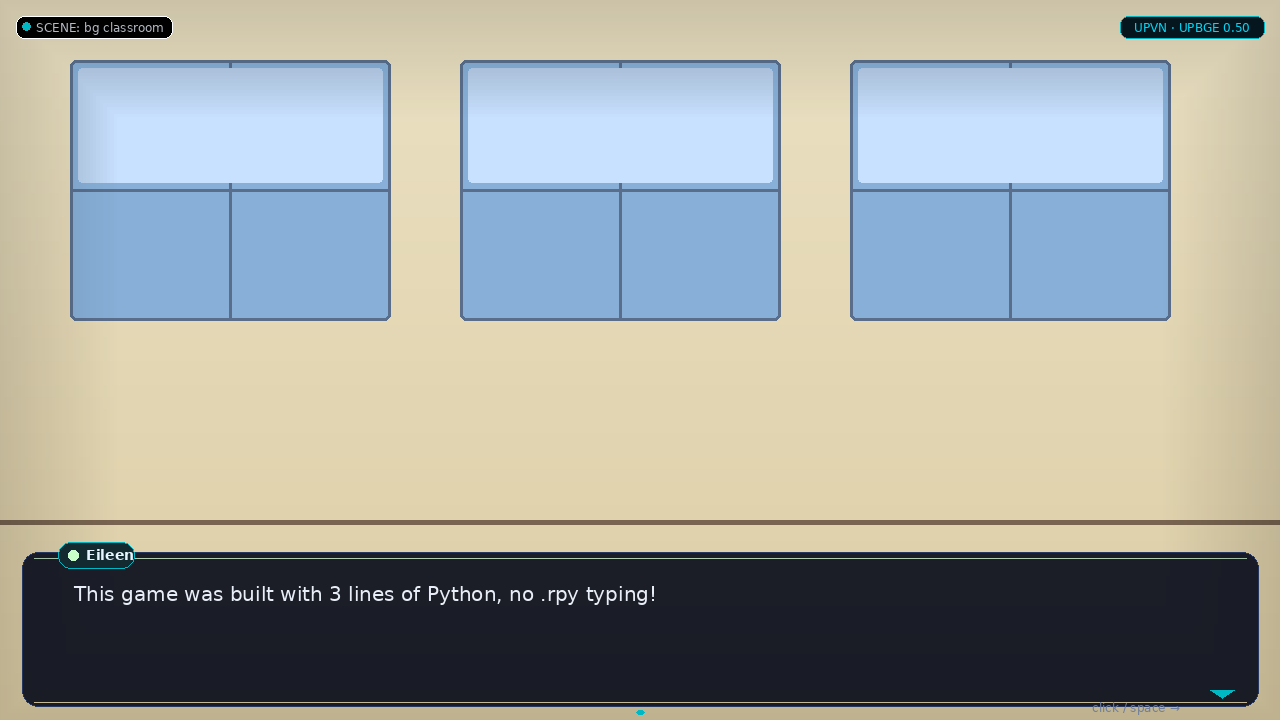
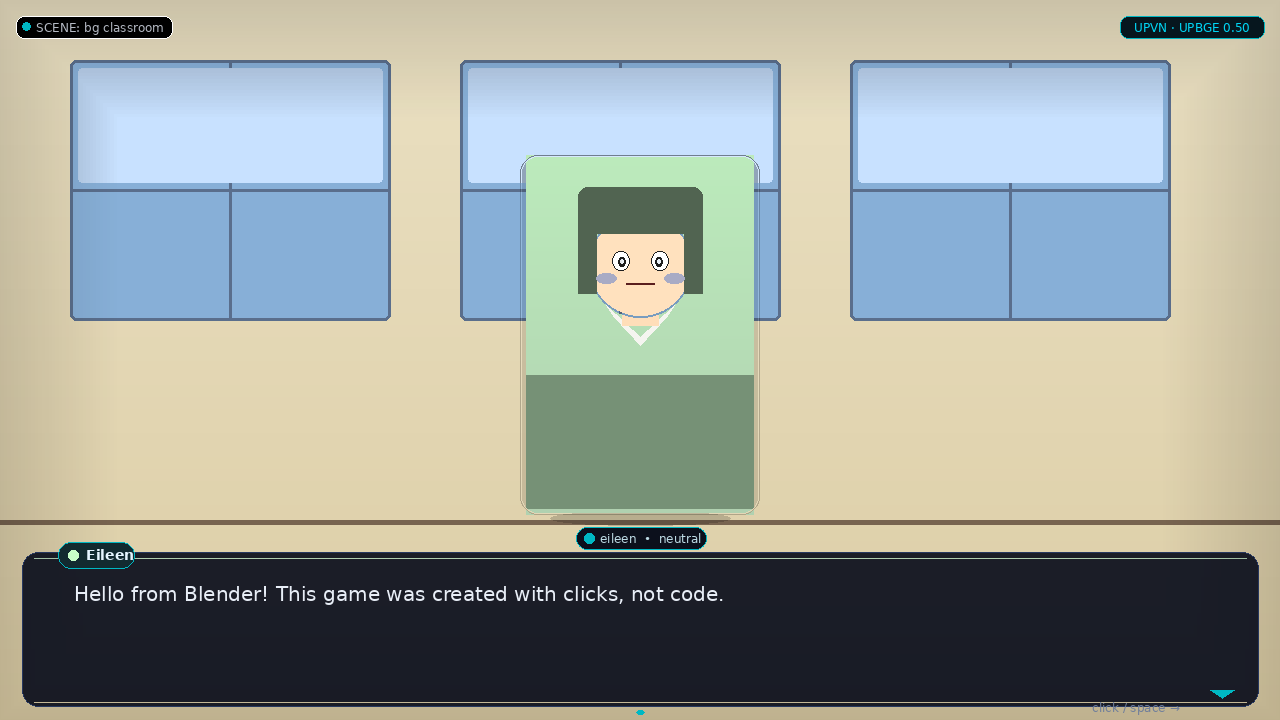
M27: Fix UPBGE GUI editor addon operators and script line merging
- Fixed NameError in _rewrite_unlit and _ensure_white_image on TEX_NODE_NAME, MIX_NODE_NAME, WHITE_IMAGE_NAME.
- Fixed label insertion logic in UPVN_GameBuilder.write() so statements are inserted before return, preventing unreachable code after return.
- Cleaned up placeholder 'Empty label.' automatically when adding new script statements.
- Added _get_script_text helper to validate unsaved edits directly from Blender Text Editor.
- Updated UPVN_PT_MainPanel layout: moved stage_name before add_stage operator, updated Pillow status label.
- Added comprehensive unit test tests/test_m27_gui_addon_operators.py (323 passed).

Changed region(s): [[0.4062, 0.2139, 0.5938, 0.7639], [0.0625, 0.7944, 0.5625, 0.8556]]

diff --git a/blend/upvn_editor_addon.py b/blend/upvn_editor_addon.py
@@ -452,92 +452,85 @@ class UPVN_GameBuilder:
                 out.append("    return")
             else:
                 out.extend(lines)
-                # ensure return if no jump/return at end
                 last = lines[-1].strip()
-                if not last.startswith("jump ") and last != "return" and "menu:" not in "\n".join(lines[-3:]):
-                    pass
+                if not last.startswith("jump ") and last != "return" and not last.startswith("return"):
+                    out.append("    return")
             out.append("")
         return "\n".join(out)
 
     def write(self):
-        # Preserve mode: if _existing_text exists, merge new additions rather than overwrite cleanly?
-        # New logic: if file existed and we have _existing_text, we merge by appending new label lines
-        # and inserting new defines at top after last define.
+        # Preserve mode: if _existing_text exists, merge new additions rather than overwrite cleanly
         if self._existing_text is not None and self.script_path.exists():
             existing = self.script_path.read_text(encoding="utf-8")
+            lines = existing.splitlines()
+
             # collect new defines that are not already in existing
             new_defines = []
             for cid, data in self.characters.items():
                 define_line = f'define {cid} = Character("{data["name"]}", color="{data["color"]}")'
                 if define_line not in existing and f'define {cid} =' not in existing:
                     new_defines.append(define_line)
-            # collect new label lines (those in self.labels[current] that are not in existing)
-            # Simpler: just append new lines for current_label to the end of that label's block in existing file
-            # Find label block for current_label and insert before next label or end
+
+            # insert lines for current_label
             if self.current_label in existing:
-                # find label occurrence
-                lines = existing.splitlines()
-                # locate label line
                 label_idx = None
                 for i, l in enumerate(lines):
                     if re.match(rf'^\s*label\s+{re.escape(self.current_label)}\s*:', l):
                         label_idx = i
                         break
                 if label_idx is not None:
-                    # find next label after
-                    next_idx = None
+                    next_idx = len(lines)
                     for j in range(label_idx + 1, len(lines)):
                         if re.match(r'^\s*label\s+\w+\s*:', lines[j]):
                             next_idx = j
                             break
-                    # insert new lines before next_idx or at end
-                    insert_at = next_idx if next_idx is not None else len(lines)
-                    # new lines to insert are those in self.labels[current_label] that are not already in block
-                    block = lines[label_idx + 1:insert_at] if insert_at else []
-                    block_text = "\n".join(block)
-                    to_insert = []
-                    for nl in self.labels[self.current_label]:
-                        if nl.strip() not in block_text:
-                            to_insert.append(nl)
+
+                    block = lines[label_idx + 1:next_idx]
+                    to_insert = [nl for nl in self.labels[self.current_label] if nl.strip() not in "\n".join(block)]
                     if to_insert:
-                        # insert
-                        new_lines = lines[:insert_at] + to_insert + lines[insert_at:]
-                        # insert new defines at top after last define or after imports
-                        if new_defines:
-                            last_define_idx = -1
-                            for k, l in enumerate(new_lines):
-                                if l.strip().startswith("define "):
-                                    last_define_idx = k
-                            if last_define_idx >= 0:
-                                for nd in reversed(new_defines):
-                                    new_lines.insert(last_define_idx + 1, nd)
-                            else:
-                                # insert at top
-                                new_lines = new_defines + [""] + new_lines
-                        self.script_path.write_text("\n".join(new_lines) + "\n", encoding="utf-8")
-                        return self.script_path
-            # fallback: if we couldn't merge cleanly, append new defines at top and new lines at end
+                        cleaned_block = []
+                        for bl in block:
+                            if bl.strip() in ('"Empty label."', "'Empty label.'"):
+                                continue
+                            cleaned_block.append(bl)
+
+                        insert_rel_idx = len(cleaned_block)
+                        for idx_rev, bl in enumerate(reversed(cleaned_block)):
+                            if bl.strip() == "return":
+                                insert_rel_idx = len(cleaned_block) - 1 - idx_rev
+                                break
+                            elif bl.strip():
+                                break
+
+                        updated_block = cleaned_block[:insert_rel_idx] + to_insert + cleaned_block[insert_rel_idx:]
+                        lines = lines[:label_idx + 1] + updated_block + lines[next_idx:]
+
+            # append new label blocks that don't exist in file yet
+            for lbl, lbl_lines in self.labels.items():
+                if lbl != self.current_label and not any(re.match(rf'^\s*label\s+{re.escape(lbl)}\s*:', l) for l in lines):
+                    lines.append("")
+                    lines.append(f"label {lbl}:")
+                    if lbl_lines:
+                        lines.extend(lbl_lines)
+                    else:
+                        lines.append('    "Empty label."')
+                        lines.append("    return")
+
+            # insert new defines at top
             if new_defines:
-                existing = "\n".join(new_defines) + "\n" + existing
-            # append new label blocks that don't exist yet
-            new_rpy = self.build_rpy()
-            # For simplicity, if current_label lines were not merged, append them
-            # Check if any new lines not in existing, append at end of current label block via simple append
-            # We'll just write merged via appending to_insert if exists else fallback to overwrite prevention: append at end
-            # Last resort: overwrite with build_rpy but preserve original defines+labels that were not in builder
-            # To avoid data loss, we append to existing file directly for new lines
-            if to_insert if 'to_insert' in locals() else []:
-                # already handled
-                pass
-            else:
-                # no merge, just append new lines for current label at end of file
-                extra = "\n".join(self.labels[self.current_label])
-                if extra.strip() and extra.strip() not in existing:
-                    # append inside current label: find label and append before next label
-                    # simple: append at end of file
-                    self.script_path.write_text(existing.rstrip() + "\n" + extra + "\n", encoding="utf-8")
-                    return self.script_path
-            # if still not written, fall through to full write
+                last_define_idx = -1
+                for k, l in enumerate(lines):
+                    if l.strip().startswith("define "):
+                        last_define_idx = k
+                if last_define_idx >= 0:
+                    for nd in reversed(new_defines):
+                        lines.insert(last_define_idx + 1, nd)
+                else:
+                    lines = new_defines + [""] + lines
+
+            self.script_path.write_text("\n".join(lines) + "\n", encoding="utf-8")
+            return self.script_path
+
         rpy = self.build_rpy()
         self.script_path.write_text(rpy, encoding="utf-8")
         return self.script_path
@@ -1737,8 +1730,7 @@ except Exception:
                 try:
                     src = pathlib.Path(bpy.path.abspath(p.bg_image))
                     if src.exists():
-                        dest_dir = pathlib.Path(path).parent.parent / "assets" / "backgrounds"
-                        dest_dir.mkdir(parents=True, exist_ok=True)
+                        dest_dir = _get_project_asset_dir(path, "backgrounds")
                         dest = dest_dir / src.name
                         shutil.copy2(src, dest)
                         bg = f"bg {src.stem}"
@@ -1776,8 +1768,7 @@ except Exception:
                 try:
                     src = pathlib.Path(bpy.path.abspath(p.sprite_image))
                     if src.exists():
-                        dest_dir = pathlib.Path(path).parent.parent / "assets" / "sprites"
-                        dest_dir.mkdir(parents=True, exist_ok=True)
+                        dest_dir = _get_project_asset_dir(path, "sprites")
                         dest = dest_dir / src.name
                         shutil.copy2(src, dest)
                         asset = src.stem
@@ -1828,7 +1819,7 @@ except Exception:
                 print("[UPVN] " + engine_diag_text())
                 self.report({'ERROR'}, "Engine not found. " + str(ENGINE_INFO.get("message", ""))[:200])
                 return {'FINISHED'}
-            text = pathlib.Path(path).read_text(encoding="utf-8") if pathlib.Path(path).exists() else ""
+            text = _get_script_text(context, path)
             try:
                 _p, _vc, _sm = _engine_api
                 _p.parse_string(text, filename=path)
@@ -1937,6 +1928,25 @@ except Exception:
                 self.report({'ERROR'}, f"Arbitrary preview failed {e}")
             return {'FINISHED'}
 
+    def _get_project_asset_dir(script_path: str, category: str) -> pathlib.Path:
+        p = pathlib.Path(script_path)
+        root = p.parent.parent if p.parent.name == "game" else p.parent
+        dest = root / "assets" / category
+        dest.mkdir(parents=True, exist_ok=True)
+        return dest
+
+    def _get_script_text(context, path: str) -> str:
+        if hasattr(context, "edit_text") and context.edit_text:
+            return context.edit_text.as_string()
+        fname = pathlib.Path(path).name
+        tb = bpy.data.texts.get(fname)
+        if tb is not None:
+            return tb.as_string()
+        p = pathlib.Path(path)
+        if p.exists():
+            return p.read_text(encoding="utf-8")
+        return ""
+
     def _builder_from_file(path: str) -> UPVN_GameBuilder:
         """Load existing script.rpy into builder preserving labels (v0.5 fix)."""
         # Use UPVN_GameBuilder's own preservation logic (it loads _existing_text)
@@ -2013,8 +2023,8 @@ except Exception:
             layout.prop(props, "sprite_image")
             layout.prop(props, "side_image")
             layout.operator("upvn.add_show", icon='OBJECT_DATA')
-            layout.operator("upvn.add_stage", icon='MESH_CUBE')
             layout.prop(props, "stage_name")
+            layout.operator("upvn.add_stage", icon='MESH_CUBE')
             layout.separator()
             layout.label(text="Dialogue", icon='SPEAKER')
             layout.prop(props, "speaker")
@@ -2035,8 +2045,11 @@ except Exception:
             row.operator("upvn.preview", icon='RENDER_RESULT')
             row.operator("upvn.check_wiring", icon='VIEWZOOM')
             layout.operator("upvn.save_demo", icon='FILE_TICK')
-            layout.operator("upvn.install_pillow", icon='CONSOLE',
-                            text="Install Pillow (for Preview)")
+            if pil_live_available():
+                layout.label(text="✓ Pillow installed (Preview active)", icon='CHECKMARK')
+            else:
+                layout.operator("upvn.install_pillow", icon='CONSOLE',
+                                text="Install Pillow (for Preview)")
             layout.prop(props, "arbitrary_slot")
             layout.operator("upvn.preview_arbitrary", icon='IMAGE_REFERENCE')
             layout.label(text="Saves: arbitrary slots 1..∞ (←→ pagination)", icon='INFO')

diff --git a/tests/test_m27_gui_addon_operators.py b/tests/test_m27_gui_addon_operators.py
@@ -1,0 +1,105 @@
+"""Integration test for UPVN Editor Addon operators in UPBGE.
+
+Verifies that all GUI panel operators execute cleanly, update script.rpy,
+maintain clean Ren'Py syntax (no unreachable return statements), and pass
+validation/preview end-to-end.
+"""
+
+import os
+import pathlib
+import subprocess
+import pytest
+
+UPBGE_BIN = "/opt/upbge/upbge-0.50-linux-x64/blender"
+
+
+@pytest.mark.skipif(
+    not os.path.exists(UPBGE_BIN),
+    reason="UPBGE binary not found at " + UPBGE_BIN,
+)
+def test_addon_all_operators_execute_and_build_valid_script(tmp_path):
+    blend = pathlib.Path(__file__).resolve().parents[1] / "blend" / "UPVN_Template.blend"
+    test_script_path = tmp_path / "game" / "script.rpy"
+
+    py_code = f"""
+import sys, pathlib, os, bpy
+
+addon_path = str(pathlib.Path("{blend.parent}").resolve())
+sys.path.insert(0, addon_path)
+import upvn_editor_addon
+upvn_editor_addon.register()
+
+p = bpy.context.scene.upvn_props
+p.project_path = "{test_script_path.as_posix()}"
+p.char_id = "a"
+p.char_name = "Alice"
+p.char_color = (1.0, 0.0, 0.0, 1.0)
+p.bg_name = "bg room"
+p.speaker = "Alice"
+p.dialogue = "Testing addon operators in UPBGE."
+p.menu_caption = "Choose your action:"
+p.menu_choice1 = "Option A"
+p.menu_jump1 = "opt_a"
+p.menu_choice2 = "Option B"
+p.menu_jump2 = "opt_b"
+p.stage_name = "room_3d"
+
+# Execute all panel operators in sequence
+assert bpy.ops.upvn.check_engine() == {{'FINISHED'}}
+assert bpy.ops.upvn.create_project() == {{'FINISHED'}}
+assert bpy.ops.upvn.add_character() == {{'FINISHED'}}
+assert bpy.ops.upvn.add_scene() == {{'FINISHED'}}
+assert bpy.ops.upvn.add_show() == {{'FINISHED'}}
+assert bpy.ops.upvn.add_stage() == {{'FINISHED'}}
+assert bpy.ops.upvn.add_dialogue() == {{'FINISHED'}}
+assert bpy.ops.upvn.add_menu() == {{'FINISHED'}}
+assert bpy.ops.upvn.validate() == {{'FINISHED'}}
+assert bpy.ops.upvn.setup_scene() == {{'FINISHED'}}
+assert bpy.ops.upvn.check_wiring() == {{'FINISHED'}}
+assert bpy.ops.upvn.save_demo() == {{'FINISHED'}}
+assert bpy.ops.upvn.preview_arbitrary() == {{'FINISHED'}}
+assert bpy.ops.upvn.preview() == {{'FINISHED'}}
+
+print("ALL_OPERATORS_SUCCESS")
+"""
+
+    res = subprocess.run(
+        [UPBGE_BIN, "--background", str(blend), "--python-expr", py_code],
+        capture_output=True,
+        text=True,
+        timeout=60,
+    )
+
+    assert "ALL_OPERATORS_SUCCESS" in res.stdout, f"Addon operators failed:\nSTDOUT:\n{res.stdout}\nSTDERR:\n{res.stderr}"
+
+    # Verify script content
+    assert test_script_path.exists()
+    content = test_script_path.read_text(encoding="utf-8")
+    assert 'define a = Character("Alice"' in content
+    assert "scene bg room" in content
+    assert 'Alice "Testing addon operators in UPBGE."' in content
+    assert "menu:" in content
+    assert "label opt_a:" in content
+
+    # Ensure no dead code placed after return in label start
+    lines = content.splitlines()
+    start_idx = None
+    for i, line in enumerate(lines):
+        if line.strip().startswith("label start:"):
+            start_idx = i
+            break
+    assert start_idx is not None, "label start: not found in script"
+
+    # Find first 'return' in label start
+    first_return = None
+    for j in range(start_idx + 1, len(lines)):
+        if lines[j].strip().startswith("label "):
+            break
+        if lines[j].strip() == "return":
+            first_return = j
+            break
+
+    assert first_return is not None, "return statement missing in label start"
+    # Ensure all dialogue and scene statements occur BEFORE the return in label start
+    assert any("scene bg room" in lines[k] for k in range(start_idx, first_return)), "scene statement was placed after return!"
+    assert any("Alice " in lines[k] for k in range(start_idx, first_return)), "say statement was placed after return!"
